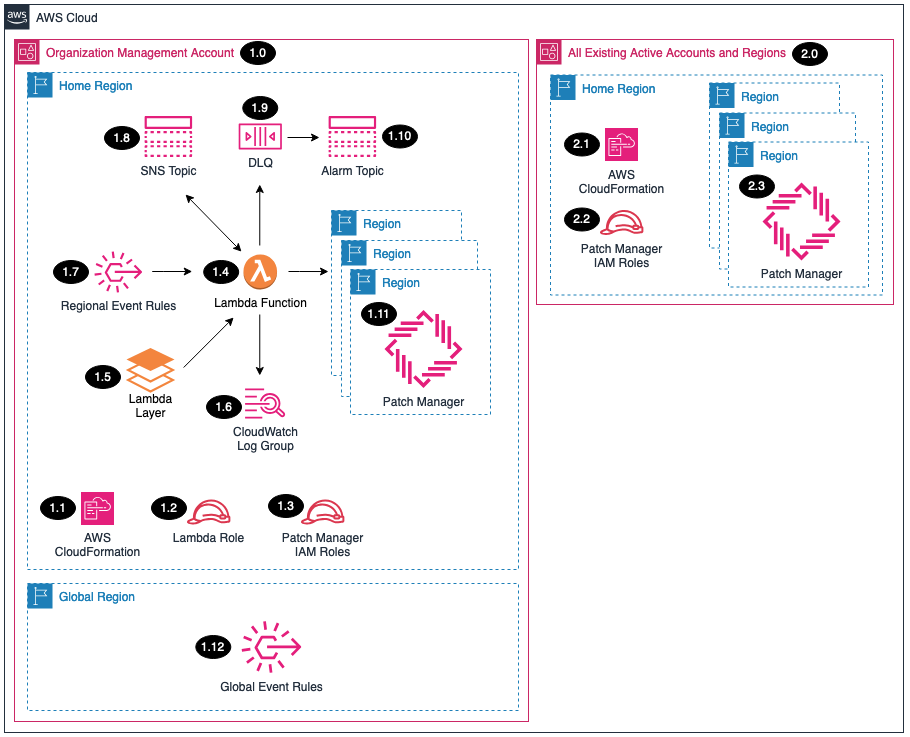
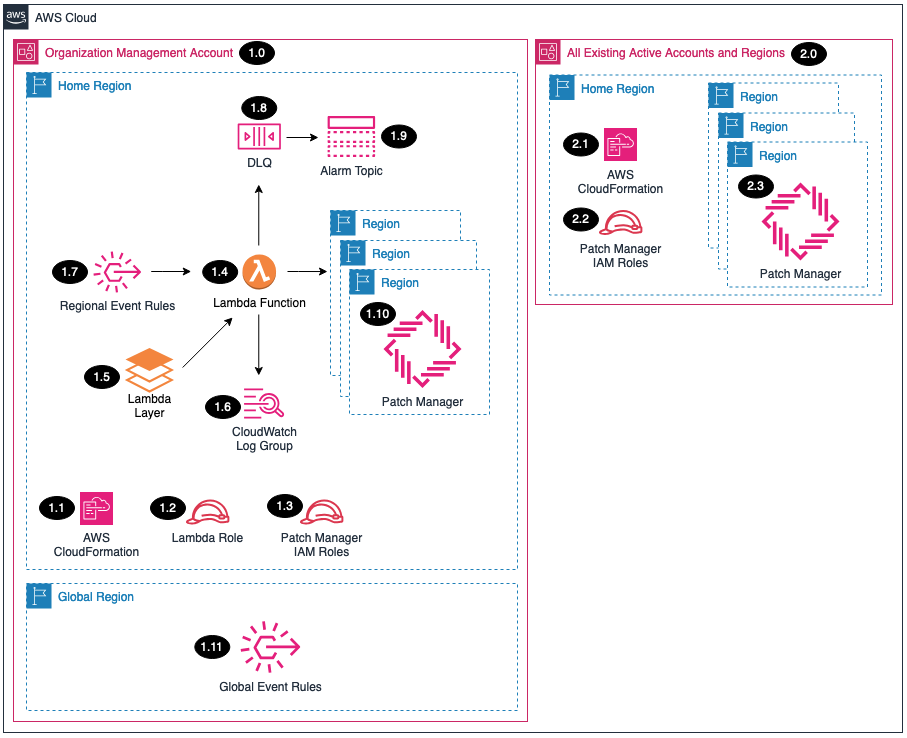
Documentation Updates

diff --git a/aws_sra_examples/solutions/patch_mgmt/patch_mgmt_org/README.md b/aws_sra_examples/solutions/patch_mgmt/patch_mgmt_org/README.md
@@ -14,7 +14,7 @@ Copyright Amazon.com, Inc. or its affiliates. All Rights Reserved. SPDX-License-
 
 ## Introduction
 
-The SRA Patch Manager solution will automate enabling Systems Manager - Patch manager by configuring Patch Manager for all the existing AWS Organization accounts.
+The SRA Patch Manager Solution is a comprehensive AWS-based platform designed to streamline the patch management process across multiple AWS accounts. The solution assumes a role in each member account to enable or disable the Patch Manager functionality, ensuring seamless management and control. It creates three distinct Maintenance Windows - one for updating the AWS Systems Manager (SSM) Agents on all Managed Instances, one for scanning and installing critical and important security patches and bug fixes on Windows-tagged instances, and another for the same on Linux-tagged instances. The solution also configures the Default Host Configuration feature, detecting the creation of new AWS accounts and automatically deploying the solution to those accounts. Additionally, the Patch Manager can be disabled across all accounts and regions through a parameter and CloudFormation update event, providing flexibility and control over the patch management process.
 
 **Key solution features:**
 - Assumes a role in each member account to enable/disable the Patch Manager Solution.
@@ -23,7 +23,7 @@ The SRA Patch Manager solution will automate enabling Systems Manager - Patch ma
    - One scans for, or installs, missing **Security patches rated Critical or Important** and **Bugfixes** on Managed Instances tagged as Windows.
    - One scans for, or installs, missing **Security patches rated Critical or Important** and **Bugfixes** on Managed Instances tagged as Linux.
 - Configures the [Default Host Configuration](https://docs.aws.amazon.com/systems-manager/latest/userguide/quick-setup-default-host-management-configuration.html) feature.
-- Detects the creation of new AWS Accounts and deploys the solution into the account automtically.
+- Detects the creation of new AWS Accounts and deploys the solution into the account automatically.
 - Ability to disable Patch Manager within all accounts and regions via a parameter and CloudFormation update event.
 
 ---
@@ -90,23 +90,19 @@ The Patch Manager solution requires:
    - When AWS Accounts are added to the AWS Organization outside of the AWS Control Tower Account Factory. (e.g. account created via AWS Organizations console, account invited from another AWS Organization).
    - When tags are added or updated on AWS Accounts.
 
-#### 1.8 SNS Topic
-
-- SNS Topic used to fanout the Lambda function for configuring the service within each region.
-
-#### 1.9 Dead Letter Queue (DLQ)
+#### 1.8 Dead Letter Queue (DLQ)
 
 - SQS dead letter queue used for retaining any failed Lambda events.
 
-#### 1.10 Alarm Topic
+#### 1.9 Alarm Topic
 
 - SNS Topic used to notify subscribers when messages hit the DLQ.
 
-#### 1.11 AWS Patch Manager<!-- omit in toc -->
+#### 1.10 AWS Patch Manager<!-- omit in toc -->
 
 - Patch Manager is enabled for each existing active account and region during the initial setup.
 
-#### 1.12 Global Event Rules
+#### 1.11 Global Event Rules
 
 - If the `Home Region` is different from the `Global Region (e.g. us-east-1)`, then global event rules are created within the `Global Region` to forward events to the `Home Region` default Event Bus.
 - The `AWS Organizations Event Rule` forwards AWS Organization account update events.
@@ -138,23 +134,23 @@ The Patch Manager solution requires:
 ##### Maintenance Windows Window
 
 Three Maintenance Windows are created:
-- `Update_SSM` updates SSM Agent on all Managed Instances
-- `Windows_Scan` scans for missing patches on all Managed Instances Tagged as Windows
-- `Linux_Scan` scans for missing patches on all Managed Instances Tagged as Linux
+- `sra_ssm_agent_update` updates SSM Agent on all Managed Instances
+- `sra_windows_maintenance` scans for missing patches on all Managed Instances Tagged as Windows
+- `sra_linux_maintenance` scans for missing patches on all Managed Instances Tagged as Linux
 
 ##### Maintenance Windows Tasks
 
 Three tasks are created and registered with each of the Maintenance Windows:
-- `Update_SSM` Runs an SSM Agent update on all Managed Instances
-- `Windows_Scan` Runs a scan on all Managed Instances Tagged as Windows
-- `Linux_Scan` Runs a scan on all Managed Instances Tagged as Linux
+- `sra_ssm_agent_update` Runs an SSM Agent update on all Managed Instances
+- `sra_windows_maintenance` Runs a scan or install task on all Managed Instances Tagged as Windows
+- `sra_linux_maintenance` Runs a scan or install task on all Managed Instances Tagged as Linux
 
 ##### Maintenance Window Targets
 
 Three target groups are created and registered with each of the Maintenance Windows:
-- `Update_SSM` which includes all instances with the tag InstanceOS:Windows or InstanceOS:Linux
-- `Windows_Scan`  which includes all instances with the tag InstanceOS:Windows
-- `Linux_Scan`  which includes all instances with the tag InstanceOS:Linux
+- `sra_ssm_agent_update` which includes all instances with the tag InstanceOS:Windows or InstanceOS:Linux
+- `sra_windows_maintenance`  which includes all instances with the tag InstanceOS:Windows
+- `sra_linux_maintenance`  which includes all instances with the tag InstanceOS:Linux
 
 #### 3.2 Command Documents<!-- omit in toc -->
 
@@ -180,6 +176,12 @@ Choose a Deployment Method:
 
 #### AWS CloudFormation<!-- omit in toc -->
 
+##### Example Install CLI Command
+
+```
+aws cloudformation deploy --template-file $PWD/aws-sra-examples/aws_sra_examples/solutions/patch_mgmt/patch_mgmt_org/templates/sra-patch_mgmt-org-main-ssm.yaml --stack-name sra-patch-org-main-ssm --capabilities CAPABILITY_NAMED_IAM
+```
+
 Refer to the [AWS SRA Easy Setup](https://github.com/aws-samples/aws-security-reference-architecture-examples/tree/main/aws_sra_examples/easy_setup#customizations-for-control-tower-implementation-instructions) Guide to pick the best installation type for you.
 
 Choose to deploy the Patch Manager solution from within the chosen deployment type.
@@ -198,7 +200,21 @@ Choose to deploy the Patch Manager solution from within the chosen deployment ty
 
 #### Solution Delete Instructions<!-- omit in toc -->
 
-1. In the `management account (home region)`, delete the AWS CloudFormation **Stack** (`sra-patch-mgmt-main-ssm`).
+The delete workflows are:
+
+##### Keep Default Host Mgmt Config
+
+1. In the management account (home region), delete the AWS CloudFormation Stack (sra-patch-mgmt-main-ssm)
+
+##### Delete Default Host Mgmt Config
+
+1. Update "Disable Patch Management Solution" to 'true' to delete Maintenance Windows and Default Host Management Configuration in all accounts and regions.
+2. In the management account (home region), delete the AWS CloudFormation Stack (sra-patch-mgmt-main-ssm)
+3. Delete host management role: in the management account run cli command: 
+
+```
+aws cloudformation delete-stack-instances --stack-set-name sra-patchmgmt-default-host-mgmt-role --no-retain-stacks --deployment-targets OrganizationalUnitIds=<ORGANIZATIONAL_UNITS> --regions <HOME_REGION>
+```
 
 ---
 
